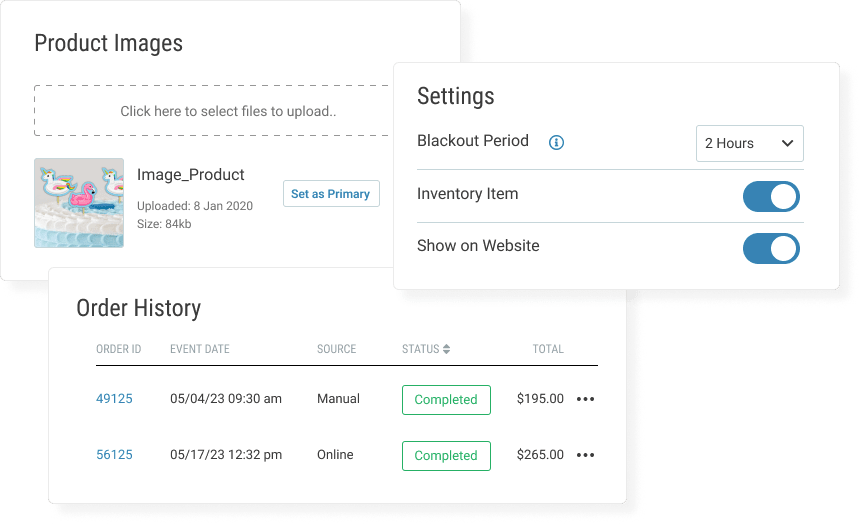
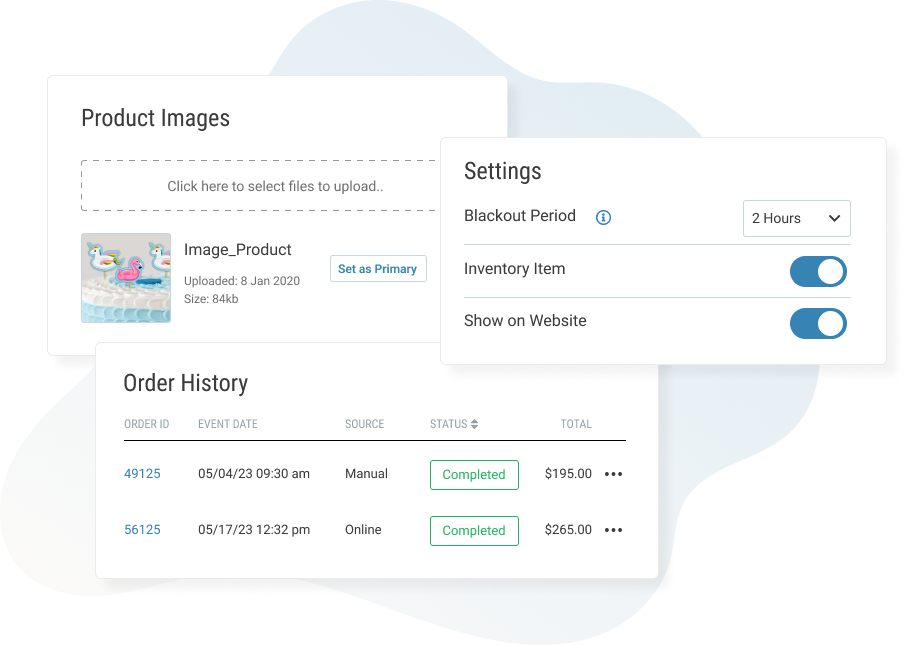
UI clenaup

diff --git a/src/sass/components/_base.scss b/src/sass/components/_base.scss
@@ -28,61 +28,6 @@ body{
            display: block;
             }
     }
-}
-    h1{
-        font-size: 50px;
-        @include grid-lg-down {
-          font-size: 29px;
-             }
-    }
-     h2{
-        font-size: 36px;
-        text-align: center;
-        @include grid-lg-down {
-            font-size: 20px !important;
-               }
-    }
-     h2.text-sm{
-        font-size: 32px;
-        font-weight: 300;
-        @include grid-lg-down {
-            font-size: 18px;
-               }
-    }
-     h3{
-        font-size: 26px;
-        @include grid-lg-down {
-          font-size: 20px;
-                          }
-    }
-     h3.text-sm{
-        font-size: 28px;
-        @include grid-lg-down {
-            font-size: 24px;
-               }
-    }
-     h4{
-        font-size: 24px;
-        @include grid-lg-down {
-            font-size: 20px;
-               }
-    }
-     h5{
-        font-size: 18px;
-        @include grid-lg-down {
-            font-size: 16px;
-
-    }
-}
-     h5.text-sm{
-        font-size: 16px;
-        @include grid-lg-down {
-            font-size: 14px;
-               }
-    }
-     h6{
-        font-size: 14px;
-    }
      .text-small{
         font-size: 14px;
     }
@@ -94,8 +39,9 @@ body{
         font-size: 16px;
         text-transform: uppercase;
     }
-     p{
-    font-size: 18px;
+    p {
+        font-size: 18px;
+    }
 }
 .section{
     padding: 90px 0 0;
@@ -140,7 +86,7 @@ body{
     color: #3d444b m !important;
 }
 .mb-90{
-    margin-bottom: 90px;
+    margin-bottom: 120px;
     @include grid-lg-down {
         margin-bottom: 40px ;
          }
@@ -177,9 +123,7 @@ body{
         padding: 0;
                   }
 }
-body{
-    color: #1A4954 !important;
-}
+
 .md-reverse{
     @include grid-lg-down {
         flex-direction: column-reverse;

diff --git a/src/sass/pages/_home.scss b/src/sass/pages/_home.scss
@@ -150,7 +150,7 @@
       }
     }
     .row-content {
-      width: 50%;
+      width: 40%;
       padding-top: 40px;
       @include grid-lg-down {
         width: 100%;
@@ -168,12 +168,10 @@
         }
         h2 {
           margin: 0;
-          font-family: $font-family-header;
-          text-align: left;
           color: #000;
-          @include grid-lg-down {
-            font-size: 20px !important;
-          }
+          font-size: 28px;
+          font-weight: 500;
+          line-height: 1.1;
         }
       }
       p {
@@ -189,16 +187,22 @@
         }
       }
 
+
+
       a {
         font-family: $font-family-header;
         font-weight: 500;
         color: #000;
         letter-spacing: -0.04rem;
+        .material-symbols-outlined {
+          vertical-align: -5px;
+          font-size: 20px;
+        }
       }
 
     }
     .row-img {
-      width: 50%;
+      width: 60%;
       @include grid-lg-down {
         width: 100%;
       }
@@ -316,20 +320,22 @@
           font-weight: 500;
           font-size: 30px;
           line-height: 1;
+          color: $font-copy-color;
         }
         .review-details {
           h6 {
             margin: 28px 0 0;
-            font-size: 18px;
+            font-size: 16px;
             font-weight: 500;
             font-family: $font-family-header;
-            letter-spacing: 0;
+            letter-spacing: -0.3px;
+            line-height: 1.2;
           }
           p {
-            font-size: 16px;
+            font-size: 14px;
             font-weight: 300;
-            //font-family: $font-family-header;
             margin: 0;
+            line-height: 1.2;
           }
         }
       }

diff --git a/src/sass/styles.css b/src/sass/styles.css
@@ -20,7 +20,7 @@ Includes the following custom build from Zurb Foundation 6.2.3:
 
 */
 @import url("https://fonts.googleapis.com/css2?family=Open+Sans:ital,wght@0,300;0,400;0,600;1,300;1,400;1,600&family=Poppins:ital,wght@0,200;0,300;0,500;0,600;1,300;1,400;1,500;1,600&display=swap");
-html * {
+div, td, p, li, a, span {
   color: #3d444b;
 }
 
@@ -28,6 +28,7 @@ h1, h2, h3, h4, h5, h6 {
   font-family: "Poppins", sans-serif;
   font-weight: 600;
   letter-spacing: -0.1rem;
+  color: #000;
 }
 
 /*
@@ -1759,11 +1760,6 @@ h2 {
   font-size: 36px;
   text-align: center;
 }
-@media only screen and (max-width:768px) {
-  h2 {
-    font-size: 20px !important;
-  }
-}
 
 h2.text-sm {
   font-size: 32px;
@@ -2145,7 +2141,7 @@ body {
   padding-right: 70px;
 }
 .section-content .flex-row .row-content {
-  width: 50%;
+  width: 40%;
   padding-top: 40px;
 }
 @media only screen and (max-width:768px) {
@@ -2170,11 +2166,8 @@ body {
   font-family: "Poppins", sans-serif;
   text-align: left;
   color: #000;
-}
-@media only screen and (max-width:768px) {
-  .section-content .flex-row .row-content .title h2 {
-    font-size: 20px !important;
-  }
+  font-size: 28px;
+  font-weight: 500;
 }
 .section-content .flex-row .row-content p {
   font-size: 16px;
@@ -2195,7 +2188,7 @@ body {
   letter-spacing: -0.04rem;
 }
 .section-content .flex-row .row-img {
-  width: 50%;
+  width: 60%;
 }
 @media only screen and (max-width:768px) {
   .section-content .flex-row .row-img {
@@ -2319,6 +2312,7 @@ body {
   font-weight: 500;
   font-size: 30px;
   line-height: 1;
+  color: #3d444b;
 }
 .section-reviews .review ul li .review-details h6 {
   margin: 28px 0 0;

diff --git a/src/sass/components/_template_subpage.scss b/src/sass/components/_template_subpage.scss
@@ -249,16 +249,16 @@
 	 	padding: 0;
 	 	padding: 24px;
 	 	background: #ffffff;
-	 	background: -moz-linear-gradient(top, #F7F7F7 0%, #ffffff 100%);
-	 	background: -webkit-linear-gradient(top, #F7F7F7 0%,#ffffff 100%);
-	 	background: linear-gradient(to bottom, #F7F7F7 0%,#ffffff 100%);
+	 	background: -moz-linear-gradient(top, #FDFDFD 0%, #fff 100%);
+	 	background: -webkit-linear-gradient(top, #FDFDFD 0%,#fff 100%);
+	 	background: linear-gradient(to bottom, #FDFDFD 0%,#fff 100%);
 
 	 	@include grid-md {
-	 		box-shadow: -25px 0 60px -45px rgba(0,0,0,.5), -1px 0 0 rgba(0,0,0,.1);
+	 		box-shadow: -6px 0 60px -45px rgba(0,0,0,.5), -1px 0 0 rgba(0,0,0,0.01);
 			background: #ffffff;
-			background: -moz-linear-gradient(top, #FCFCFC 0%, #ffffff 100%);
-			background: -webkit-linear-gradient(top, #FCFCFC 0%,#ffffff 100%);
-			background: linear-gradient(to bottom, #FCFCFC 0%,#ffffff 100%);
+			background: -moz-linear-gradient(top, #fff 0%, rgba(255,255,255,0%) 100%);
+			background: -webkit-linear-gradient(top, #fff 0%,rgba(255,255,255,0%) 100%);
+			background: linear-gradient(to bottom, #fff 0%,rgba(255,255,255,0%) 100%);
 
 
 	 	}

diff --git a/src/sass/components/_typography.scss b/src/sass/components/_typography.scss
@@ -12,16 +12,19 @@ $font-family-cursive: 'Playfair Display', serif;
 $font-weight-normal: normal !default;
 $font-weight-bold: bold !default;
 
+$font-copy-color: #3d444b;
+
 /////////////////////////////////////////////////////////////////////////////
 // BODY
 /////////////////////////////////////////////////////////////////////////////
 
-html * {
-	color: #3d444b;
+div, td, p, li, a, span {
+	color: $font-copy-color;
 }
 
 h1, h2, h3, h4, h5, h6 {
 	font-family: $font-family-header;
 	font-weight: 600;
 	letter-spacing: -0.1rem;
+	color: #000;
 }

diff --git a/src/sass/components/_utility.scss b/src/sass/components/_utility.scss
@@ -94,6 +94,14 @@ background: linear-gradient(90deg, #3b9768 0%, #55b070 100%);
 margin-top: 1rem;
 }
 
+/*--------------------------------------
+Google Material Icons
+--------------------------------------*/
+
+.material-symbols-outlined {
+    vertical-align: -5px;
+    font-size: 20px;
+}
 
 /*--------------------------------------
 Form
